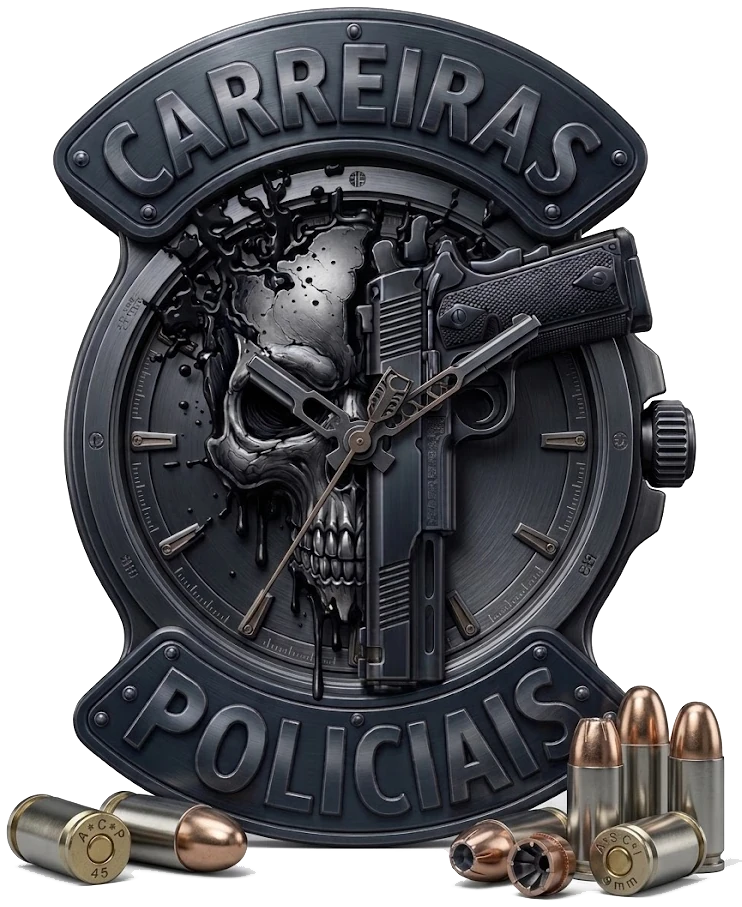
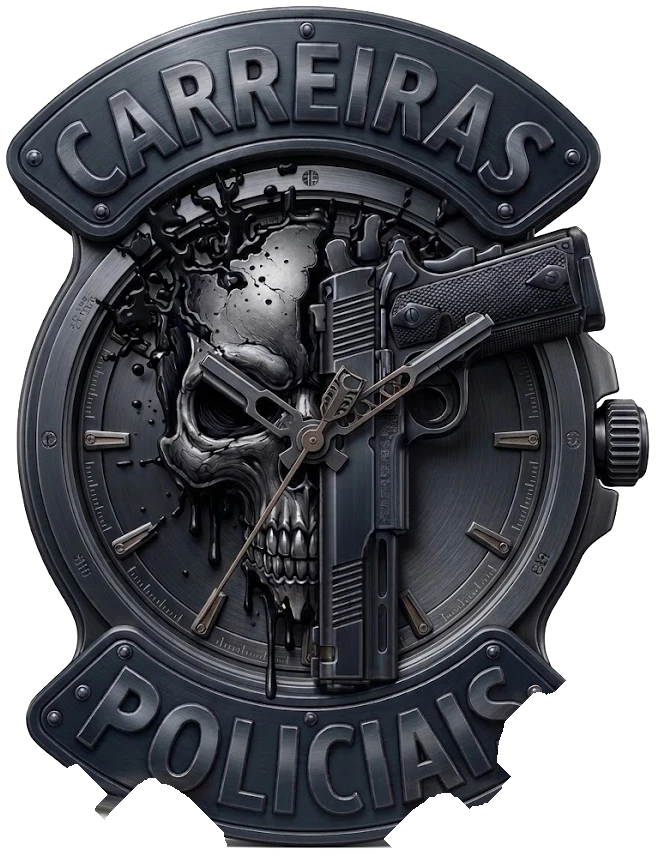
Corrige ponteiros, remove balas e ancora o relógio da homepage (#269)
* Add 3D clock showcase to the homepage

Introduces a brand showcase band between the hero and the platform
section featuring the new "Carreiras Policiais" clock art (skull,
pistol and ammunition), with the white background removed and the
asset optimized as webp. The art gets a tilt-on-hover 3D effect, a
soft glow and drop shadow, an idle float animation, light/dark theme
support, and reduced-motion and forced-colors fallbacks.

Claude-Session: https://claude.ai/code/session_019hbKEpmRHYQMbjA7WN3Vhk

* Make the homepage clock hands real and anchor the showcase

The clock art had hands painted into the image, so they never moved.
Overlays a real analog hand set (hour/minute in gold, second in red,
all with a glow) driven by the actual wall-clock time, ticking once
a second and aligned to the second boundary, with a quick easing
transition that is skipped under prefers-reduced-motion. Hand colors
match the pointer palette already shipped for the Desafio/treino
clock (#266) so the brand reads consistently across the site.

Also drops the automatic idle float so the piece sits in one fixed,
anchored spot (with a pedestal) instead of drifting, per feedback
that the showcase should have a deliberate, stable position.

Claude-Session: https://claude.ai/code/session_019hbKEpmRHYQMbjA7WN3Vhk

* Fix invisible clock hands, drop bullets, anchor on a mounted plaque

The hand overlay was dead on arrival: a sitewide ".home svg { width:
[…]

diff --git a/src/components/landing/ClockShowcase.tsx b/src/components/landing/ClockShowcase.tsx
@@ -1,9 +1,9 @@
 import { useEffect, useRef, type PointerEvent } from "react";
 
 const MAX_TILT = 8;
-// Dial geometry measured on the 742×907 art: pivot and hand reach in art pixels.
-const CX = 356;
-const CY = 460;
+// Dial geometry measured on the 656×856 art (bullets cropped out): pivot and hand reach in art pixels.
+const CX = 309;
+const CY = 459;
 const HOUR_LEN = 118;
 const MINUTE_LEN = 178;
 const SECOND_LEN = 196;
@@ -101,44 +101,46 @@ export function ClockShowcase() {
             foco tático e disciplina até o dia da prova. Os ponteiros marcam a hora real, agora.
           </p>
         </div>
-        <div
-          ref={stage}
-          className="home-clock__stage"
-          data-visible="false"
-          onPointerMove={move}
-          onPointerLeave={rest}
-          onBlur={rest}
-        >
-          <span className="home-clock__pedestal" aria-hidden="true" />
-          <span className="home-clock__glow" aria-hidden="true" />
-          <span className="home-clock__shadow" aria-hidden="true" />
-          <div className="home-clock__tilt" ref={tilt}>
-            <img
-              className="home-clock__image"
-              src="/media/brand/relogio-carreiras-policiais.webp"
-              alt="Relógio Carreiras Policiais da Norte Concursos, com caveira, pistola e munições em metal escovado"
-              width={742}
-              height={907}
-              loading="lazy"
-              decoding="async"
-            />
-            <svg
-              className="home-clock__hands"
-              viewBox="0 0 742 907"
-              aria-hidden="true"
-              focusable="false"
-            >
-              <g ref={hourHand} className="home-clock__hand home-clock__hand--hour">
-                <line x1={CX} y1={CY} x2={CX} y2={CY - HOUR_LEN} />
-              </g>
-              <g ref={minuteHand} className="home-clock__hand home-clock__hand--minute">
-                <line x1={CX} y1={CY} x2={CX} y2={CY - MINUTE_LEN} />
-              </g>
-              <g ref={secondHand} className="home-clock__hand home-clock__hand--second">
-                <line x1={CX} y1={CY + SECOND_TAIL} x2={CX} y2={CY - SECOND_LEN} />
-              </g>
-              <circle className="home-clock__pivot" cx={CX} cy={CY} r={9} />
-            </svg>
+        <div className="home-clock__plate">
+          <div
+            ref={stage}
+            className="home-clock__stage"
+            data-visible="false"
+            onPointerMove={move}
+            onPointerLeave={rest}
+            onBlur={rest}
+          >
+            <span className="home-clock__pedestal" aria-hidden="true" />
+            <span className="home-clock__glow" aria-hidden="true" />
+            <span className="home-clock__shadow" aria-hidden="true" />
+            <div className="home-clock__tilt" ref={tilt}>
+              <img
+                className="home-clock__image"
+                src="/media/brand/relogio-carreiras-policiais.webp"
+                alt="Relógio Carreiras Policiais da Norte Concursos, com caveira e pistola em metal escovado"
+                width={656}
+                height={856}
+                loading="lazy"
+                decoding="async"
+              />
+              <svg
+                className="home-clock__hands"
+                viewBox="0 0 656 856"
+                aria-hidden="true"
+                focusable="false"
+              >
+                <g ref={hourHand} className="home-clock__hand home-clock__hand--hour">
+                  <line x1={CX} y1={CY} x2={CX} y2={CY - HOUR_LEN} />
+                </g>
+                <g ref={minuteHand} className="home-clock__hand home-clock__hand--minute">
+                  <line x1={CX} y1={CY} x2={CX} y2={CY - MINUTE_LEN} />
+                </g>
+                <g ref={secondHand} className="home-clock__hand home-clock__hand--second">
+                  <line x1={CX} y1={CY + SECOND_TAIL} x2={CX} y2={CY - SECOND_LEN} />
+                </g>
+                <circle className="home-clock__pivot" cx={CX} cy={CY} r={9} />
+              </svg>
+            </div>
           </div>
         </div>
       </div>

diff --git a/src/styles/home-clock.css b/src/styles/home-clock.css
@@ -24,10 +24,23 @@
   line-height: 1.75;
 }
 
+/* A mounted plaque gives the clock a deliberate, anchored home instead of floating on bare
+   background — the same "ink panel" treatment used elsewhere on the page (e.g. the platform band). */
+.home-clock__plate {
+  justify-self: center;
+  display: grid;
+  place-items: center;
+  padding: clamp(22px, 3vw, 34px);
+  border-radius: 20px;
+  background: color-mix(in srgb, var(--ink) 92%, transparent);
+  border: 1px solid color-mix(in srgb, var(--brass-soft) 30%, transparent);
+  box-shadow:
+    0 24px 48px -24px rgb(0 0 0 / 55%),
+    inset 0 1px 0 rgb(255 255 255 / 6%);
+}
 .home-clock__stage {
   position: relative;
-  justify-self: center;
-  width: clamp(220px, 24vw, 360px);
+  width: clamp(240px, 26vw, 380px);
   perspective: 900px;
   touch-action: pan-y;
 }
@@ -74,11 +87,14 @@
   height: auto;
   filter: drop-shadow(0 22px 32px rgb(0 0 0 / 45%));
 }
-.home-clock__hands {
+/* Specificity must beat the homepage's generic ".home svg { width: 20px; height: 20px }"
+   icon-sizing rule, or the hand overlay collapses to a 20px box and never shows. */
+.home.home .home-clock__hands {
   position: absolute;
   inset: 0;
   width: 100%;
   height: 100%;
+  flex-shrink: initial;
   overflow: visible;
 }
 .home-clock__hand line {
@@ -123,7 +139,8 @@
   }
   .home-clock__copy { max-width: 56ch; order: 1; }
   .home-clock__copy > p { margin-inline: auto; }
-  .home-clock__stage { order: 0; width: clamp(180px, 46vw, 260px); margin-bottom: 8px; }
+  .home-clock__plate { order: 0; margin-bottom: 8px; padding: clamp(16px, 5vw, 24px); }
+  .home-clock__stage { width: clamp(190px, 48vw, 280px); }
 }
 
 @media (prefers-reduced-motion: reduce) {
